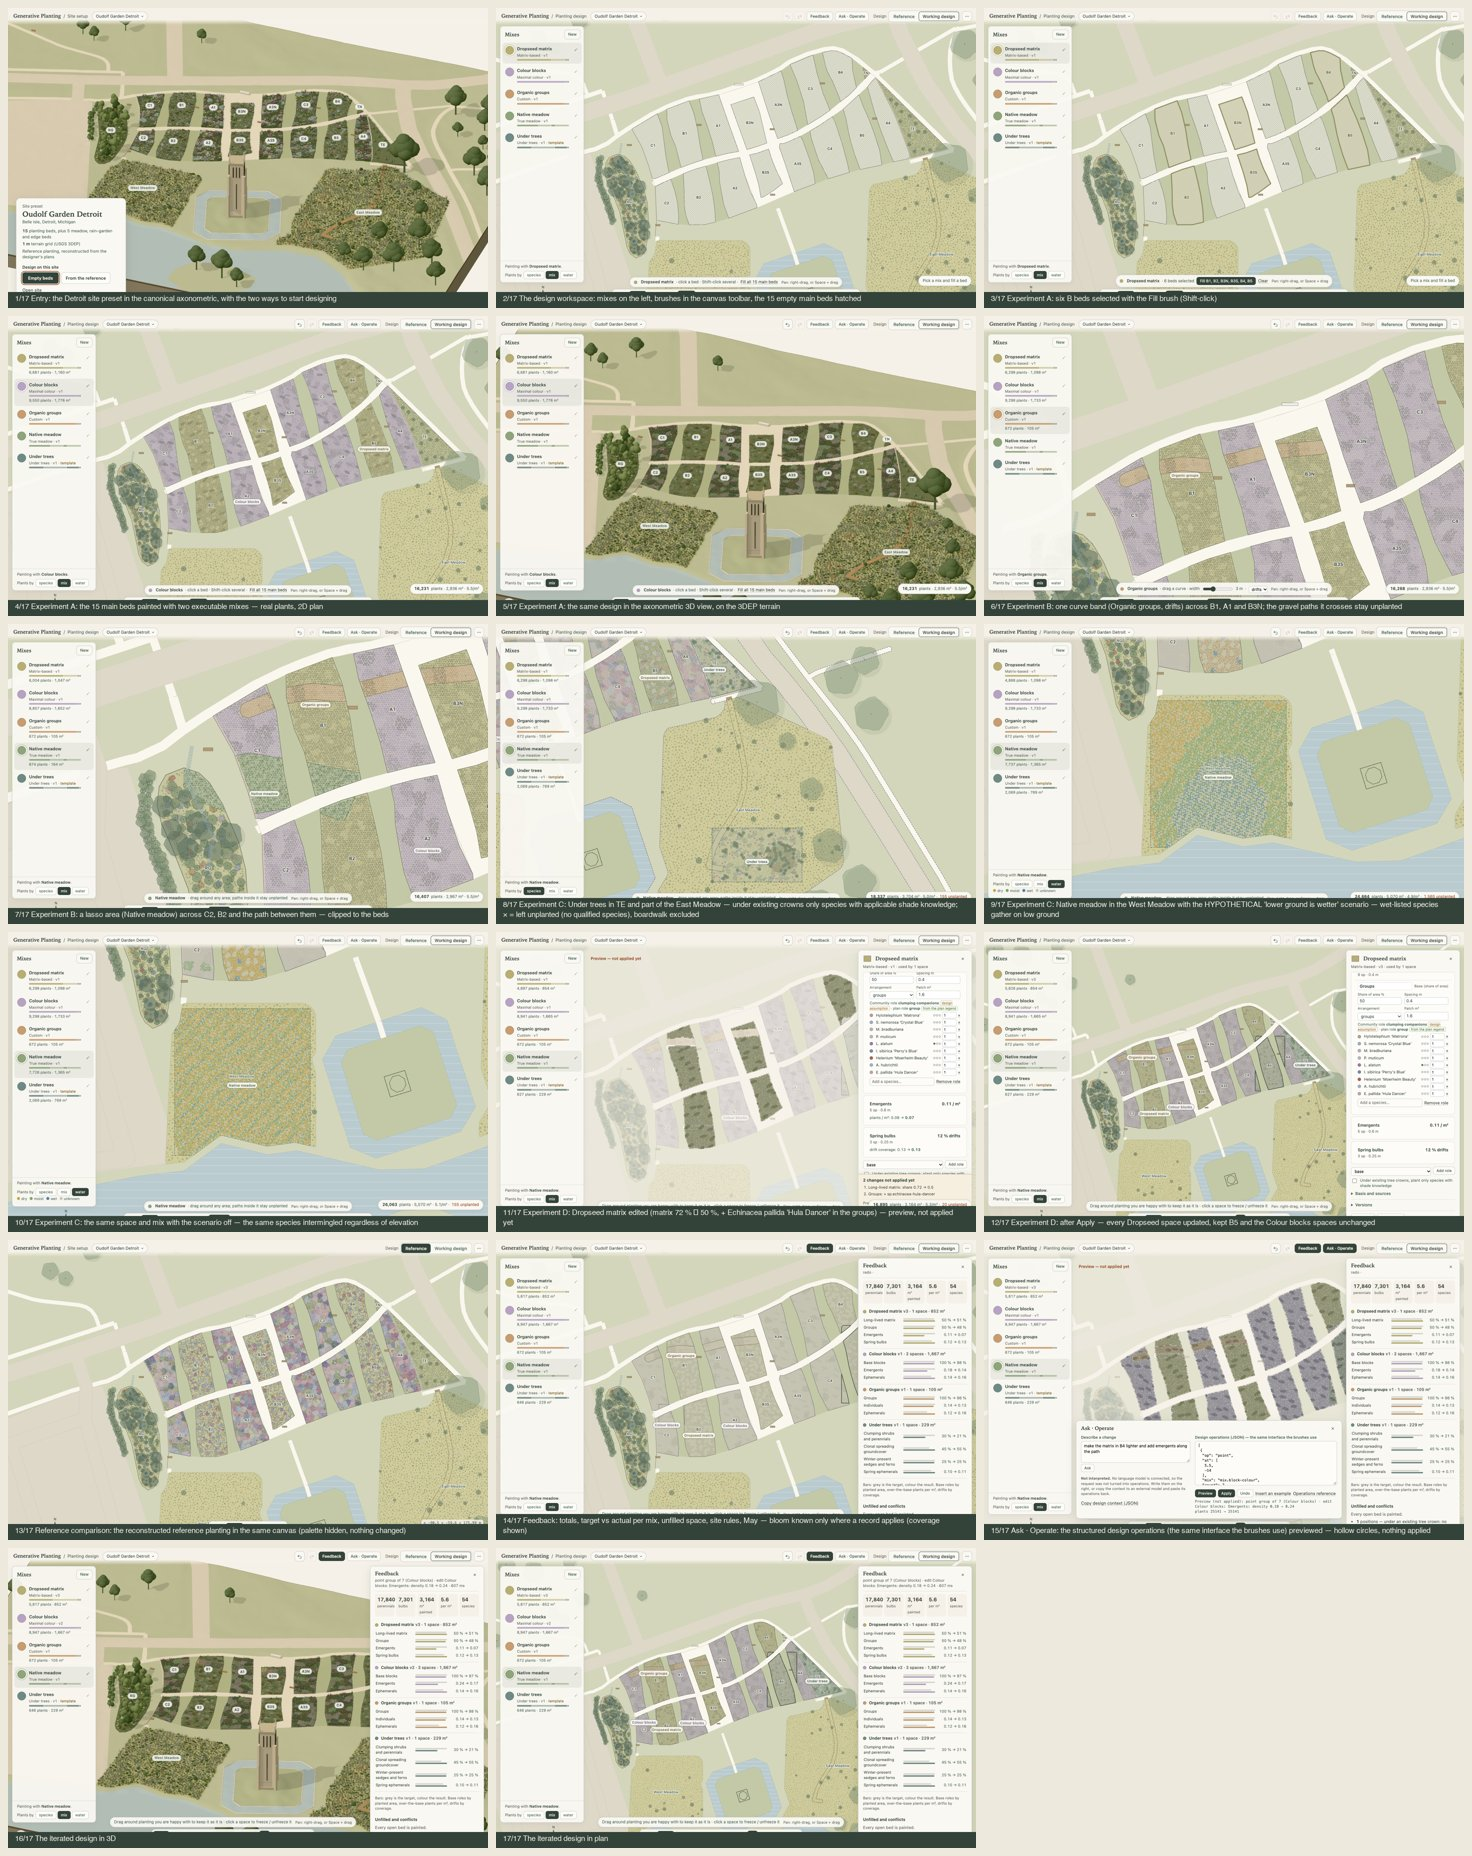
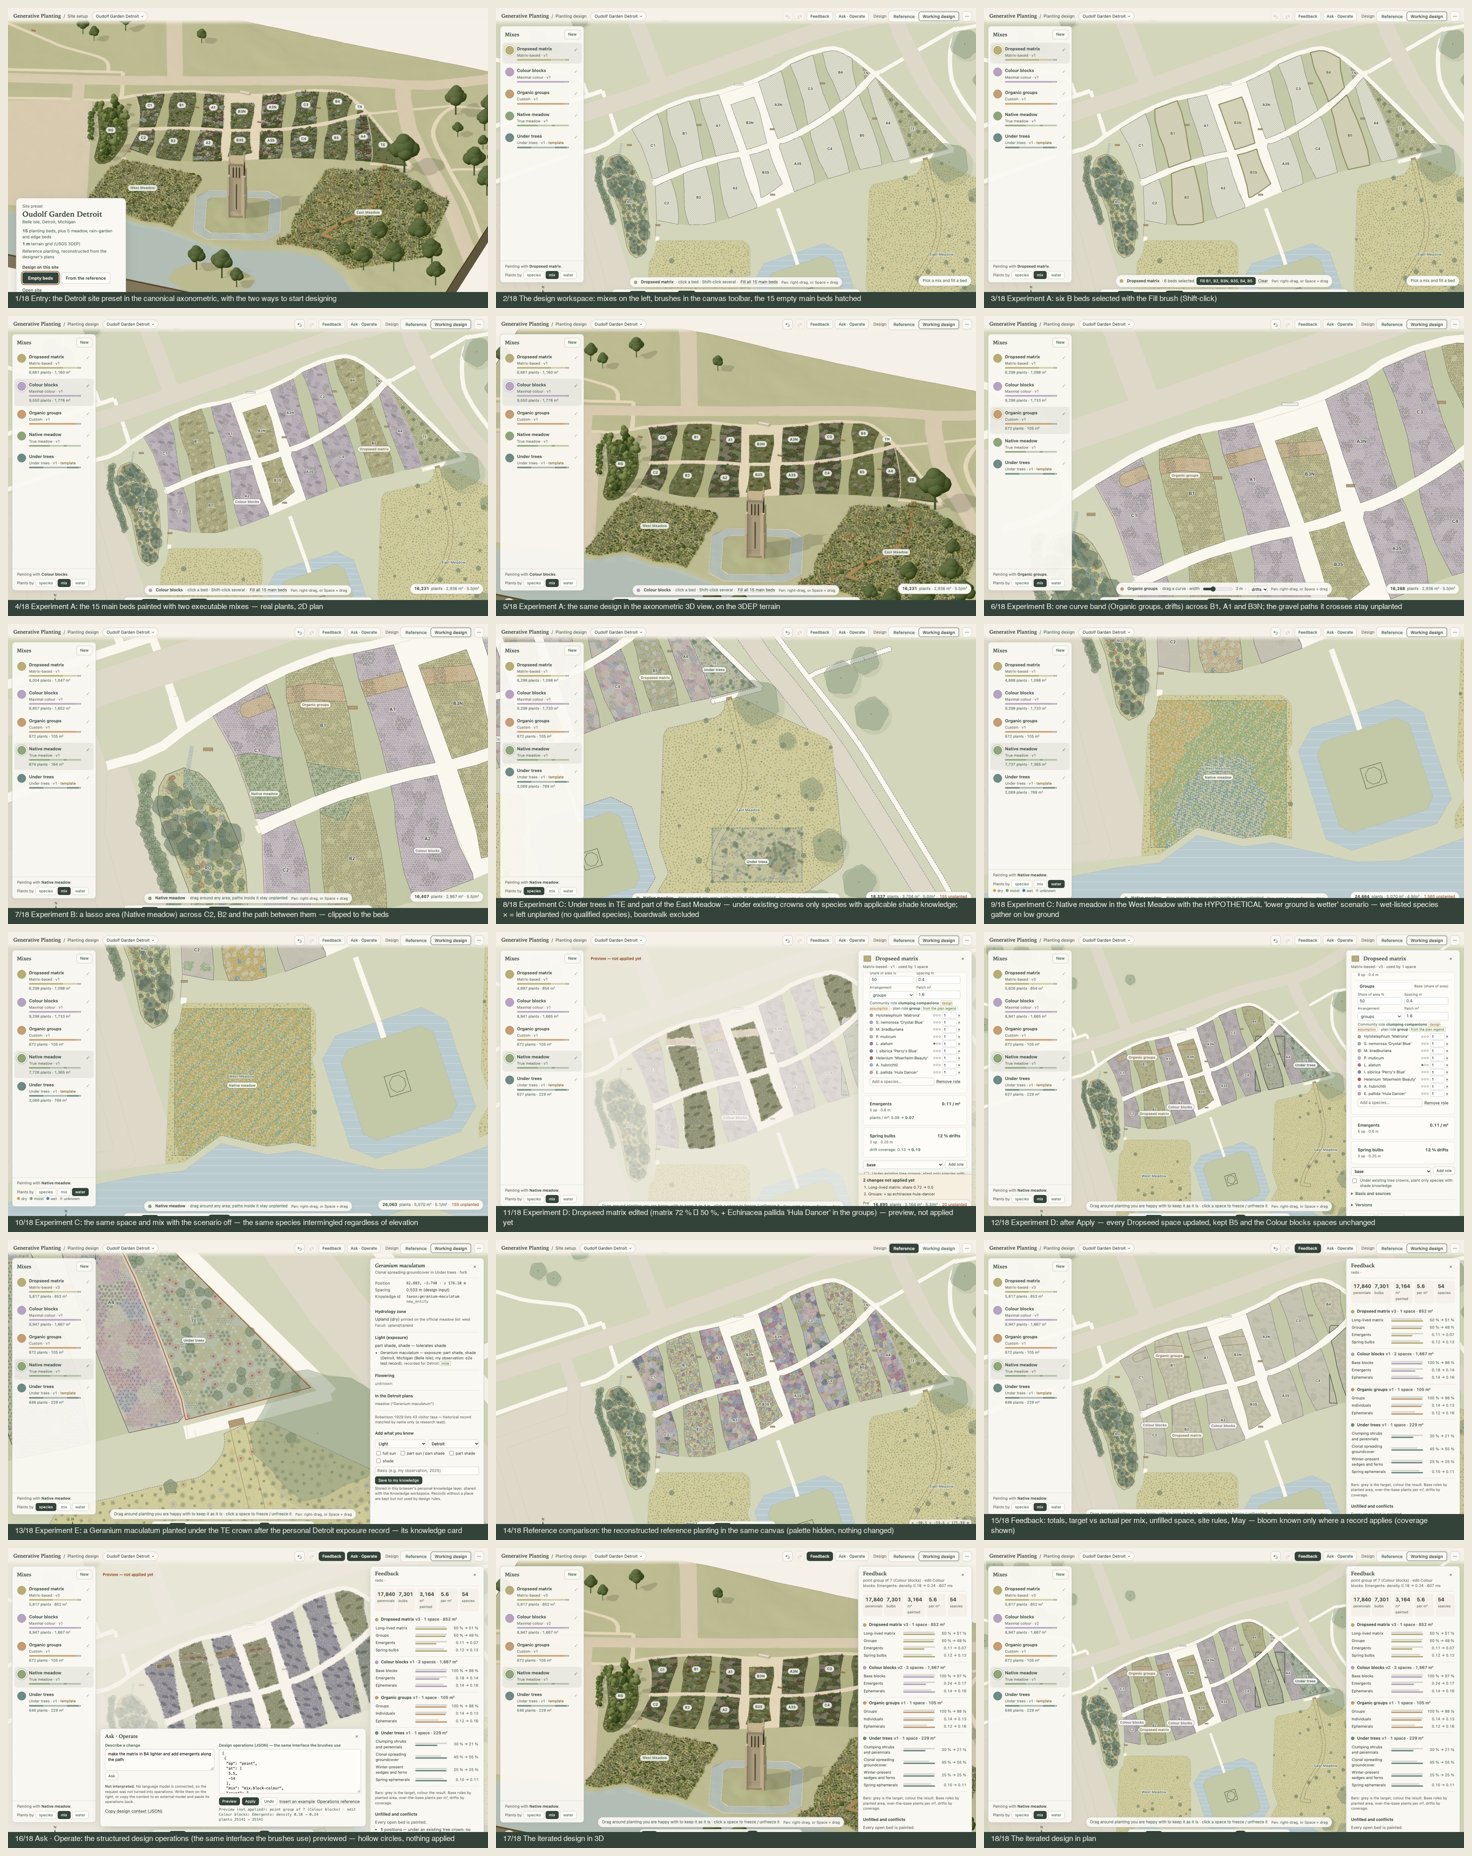
Public design branch: include the full experiment record (E01, 18-frame flow) and update the handoff for the public Knowledge copy
With the public Knowledge copy merged, experiments A–F reproduce here; checked in the browser: A 16,231 perennials + 7,112
bulbs, E (Geranium record, Detroit-only scope, apply-here) identical to the local branch.

Changed region(s): [[0.0, 0.6562, 1.0, 1.0]]

diff --git a/docs/INTEGRATED_HANDOFF.md b/docs/INTEGRATED_HANDOFF.md
@@ -1,6 +1,6 @@
 # Generative Planting · Integrated Design Prototype — 中文交接报告
 
-日期：2026-11-26 · 分支：本地 `integration/design-prototype`（含 Knowledge 模块，完整验收版，未 push）；GitHub `integration/design-prototype-public`（同样的设计层，不含待授权的 Knowledge 资料，见 §9）
+日期：2026-11-26 · 分支：GitHub `integration/design-prototype-public` = 设计层 + Knowledge 模块的公开版（`feature/knowledge-workspace`，不含待授权的 Robertson 原始行与 Metro Vancouver 原文引语，见 §9）；本地 `integration/design-prototype` 是含完整研究副本的开发分支（未 push）
 本地打开：`python3 -I tools/serve.py --port 8790` → http://127.0.0.1:8790/ （无缓存静态服务器；Claude 预览配置名 `gp-design`）
 
 ## 0. 结果一览
@@ -128,11 +128,11 @@ Point / Line / Area 是几何；Matrix / Blocks / Groups / Mixed 是配置方法
 ## 9. 发布检查
 
 - 没有上传 slides、私有输入（`private-inputs/` 仍被 git 忽略）、密钥。
-- Knowledge 模块交接中写明：Robertson 数字化表与 Metro Vancouver 原文引语**在许可确认前只留本地**。所以：
-  - 本地分支 `integration/design-prototype` = computational-space + 设计层 + 合并的 Knowledge 分支（完整验收版，未 push）；
-  - GitHub 分支 `integration/design-prototype-public` = 同样的设计层，但不含 Knowledge 模块文件；在那里植物库报告 `unavailable`，光照 / 花期为 unknown，水文分区仍可用（站点属性）。
+- Knowledge 模块交接中写明：Robertson 数字化表与 Metro Vancouver 原文引语**在许可确认前只留本地**。Knowledge Agent 已推送一个公开版（`origin/feature/knowledge-workspace`）：保留所有记录、实体、关系、每种植物的计数和转述，只把这两类材料放在被 git 忽略的本地研究副本里。所以：
+  - GitHub 分支 `integration/design-prototype-public` = computational-space + 设计层 + Knowledge 公开版，可以完整复现实验 A–F（包括 E）；
+  - 本地分支 `integration/design-prototype` = 同样的设计层 + 完整的 Knowledge 研究副本（含待授权材料，未 push）。
 - `design-library.json` 只存事实（种名 → 名录上印的水文分区，附来源 S-OGD-MEADOW；与 model.json 里已公开的草甸种名同源），PDF 本身仍在 `private-inputs/`。它**已包含在公开分支**，因为没有它水文情景无法运行；如果你不同意公开，删除该文件即可（功能退化为 unknown）。
-- 公开分支不含 `E01-knowledge-card.png`（卡片上显示了由 Robertson 1929 数字化表得出的访花昆虫数），`flow.gif` / `flow-sheet.jpg` 在公开分支里重新生成为 17 帧（同样去掉这一帧）。
+- `E01-knowledge-card.png` 上显示的是每种植物的 Robertson 访花昆虫计数——公开版 Knowledge 也保留这类计数，所以截图与 18 帧 `flow.gif` 都在公开分支里。
 - 合并后 Knowledge 分支又前进到 `ca437c4`（Part B：Claude 集成层，未连接）；本地完整分支已合并它，Knowledge 测试 133/133。
 - 没有覆盖 main、没有动 Knowledge Agent 的 worktree（那里还有一个未提交的 `tools/knowledge/llm/`，未触碰）。
 
@@ -154,11 +154,11 @@ Point / Line / Area 是几何；Matrix / Blocks / Groups / Mixed 是配置方法
 6. **3D**：空间轮廓、名称标签、月份着色只在平面图；3D 显示植物与地面色块。
 7. **交互**：画笔需要指针；非指针路径是 JSON 操作。Mix 编辑仍是表单（评审建议：直接拖动色板上的角色条——未做）。
 8. **持久化**：设计文档保存在本浏览器 localStorage；导出用 ⋯ › Export working design（含所有设计植物）。
-9. **GitHub 分支不含 Knowledge 模块**（见 §9）：公开分支上植物库为 unavailable，Under trees 在树冠下不会种植任何植物（因为没有任何遮阴知识可用），实验 E 只能在本地完整分支复现。
+9. **GitHub 分支使用 Knowledge 公开版**（见 §9）：设计规则读取的记录与本地相同；只有 Robertson 原始行与 Metro Vancouver 原文引语不在其中。
 
 ## 12. 需要你决定的事项
 
-1. 是否同意公开 Knowledge 模块中的 Robertson 数字化表与 Metro Vancouver 原文引语（决定后可把本地完整分支 push）。
+1. Robertson 原始行与 Metro Vancouver 原文引语的许可（目前只在本地研究副本里；公开分支已能完整运行）。
 2. `design-library.json`（官方草甸名录印刷的水文分区，事实 + 来源）是否可以公开。
 3. 初始 Mix 的物种子集、等权比例、株距（0.40–0.80 m）、块大小（1.6–6 m²）是否符合你的设计意图。
 4. Native meadow 四个功能角色的物种归类（目前是设计假设）。

diff --git a/README.md b/README.md
@@ -3,7 +3,8 @@
 > **Branch `integration/design-prototype`: the Integrated Design Prototype.** One spatial workspace where a site preset is
 > entered, a Planting Mix is picked or created, beds / areas / curves / points are painted, and real planned plants are
 > generated on the Detroit terrain (2D and 3D from the same data), checked against paths, structures, trees and plant
-> knowledge, then modified and iterated. Start: `python3 -I tools/serve.py --port 8790` → http://127.0.0.1:8790/ (first
+> knowledge (the public copy of the Knowledge module; the Robertson rows and Metro Vancouver quotes stay in a local
+> research copy), then modified and iterated. Start: `python3 -I tools/serve.py --port 8790` → http://127.0.0.1:8790/ (first
 > visit: *Empty beds* or *From the reference*; `?demo=1` opens a ready-made design). Read
 > [docs/INTEGRATED_HANDOFF.md](docs/INTEGRATED_HANDOFF.md) (Chinese handoff), [docs/DESIGN_CONTRACT.md](docs/DESIGN_CONTRACT.md)
 > (data, engine, operations API), [docs/INTEGRATED_RESEARCH.md](docs/INTEGRATED_RESEARCH.md) (research basis) and
